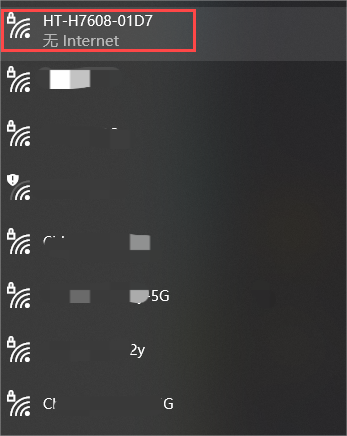
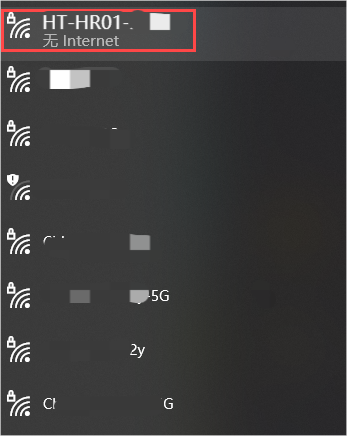
HR01

Changed region(s): [[0.0, 0.0, 1.0, 1.0], [0.1153, 0.0, 0.4899, 0.0894], [0.0, 0.0, 0.0288, 0.0298]]

diff --git a/doc/wifi_halow/halow_guide/source/conf.py b/doc/wifi_halow/halow_guide/source/conf.py
@@ -1,0 +1,23 @@
+# Configuration file for the Sphinx documentation builder.
+#
+# For the full list of built-in configuration values, see the documentation:
+# https://www.sphinx-doc.org/en/master/usage/configuration.html
+
+# -- Project information -----------------------------------------------------
+# https://www.sphinx-doc.org/en/master/usage/configuration.html#project-information
+
+project = 'ht-h7608'
+conf_py_path = '/doc/wifi_halow/ht-h7608/source/'
+
+copyright = '2022, shug'
+author = 'shug'
+release = 'latest'
+
+# -- General configuration ---------------------------------------------------
+# https://www.sphinx-doc.org/en/master/usage/configuration.html#general-configuration
+import os
+import sys
+sys.path.insert(0, os.path.abspath('../../../_ext/'))
+from common_conf import *
+
+update_path(conf_py_path)

diff --git a/doc/wifi_halow/ht-hr01/source/index.rst b/doc/wifi_halow/ht-hr01/source/index.rst
@@ -3,25 +3,152 @@
 
 :ht_translation:`[简体中文]:[Eglish]`
 
-
-
 **This document is still under construction and will be completed soon.**
 
-Summry
-------
+.. warning:: 
+   The current firmware version tests are all conducted on Raspberry PI 4B.
+
+Introduction
+============
+
 Pi-CamLow is a Raspberry Pi HAT(Hardware Attached on Top) that integrates Wi-Fi HaLow and a camera. Using the firmware we provided, this board allows you to enable various Wi-Fi HaLow functionalities such as AP, node, and Mesh networking on Raspberry Pi.
 
-.. image:: ./img/01.png
+.. image:: ./img/03.png
    :align: center
-   :width: 500x 
+   :width: 500px 
 
 Feature
 -------
 
-- Raspberry Pi HAT, onboard 40-pin Female Header, Specifically designed for Raspberry Pi, making integration and installation easy.
+- Raspberry Pi HAT, Specifically designed for Raspberry Pi, making integration and installation easy.
 - Provides firmware 
-   - Compatible with Raspberry Pi 4B.
-   - Enable all key Wi-Fi HaLow functionalities.
-   - Along with a camera display UI.
 - Excellent Wi-Fi HaLow RF performance
 - Powerful camera capabilities
+
+Components
+----------
+
+.. image:: ./img/01.png
+   :align: center
+   :width: 500px 
+
+-------------------------------------------------------------------
+
+Basic Resources
+===============
+
+- `ESP-HaLowCamera Datasheet <https://resource.heltec.cn/download/HT-HR01/Datasheet>`_
+- `ESP-HaLowCamera Schematic Diagram <https://resource.heltec.cn/download/HT-HR01/Schematic_diagram>`_
+- `HaLow-Camera Firmware <https://resource.heltec.cn/download/HT-HR01/firmware/Pi-CamLow>`_
+
+Pin Mapping
+===========
+
+The pins on this HAT are fully compatible with the Raspberry Pi.
+
+.. image:: ./img/02.png
+   :align: center
+   :width: 800px
+
+---------------------------------------------------------------
+
+Get started
+===========
+
+Hardware
+--------
+Hardware Preparation
+^^^^^^^^^^^^^^^^^^^^
+- `Pi-CamLow <https://heltec.org/project/ht-hc32/>`_
+- `Raspberry Pi 4 Module B <https://heltec.org/project/raspberry-pi4-model-b/>`_
+- Micro SD card
+- SD card reader
+- Computer running Windows, Linux, or macOS
+
+Hardware installation
+^^^^^^^^^^^^^^^^^^^^^
+Follow the steps shown below to install and connect the device.
+
+.. image:: ./img/10.png
+   :align: center
+
+Power
+^^^^^^
+HR01 is powered by Raspberry PI, so it is sufficient to connect the Raspberry PI power supply.
+
+-----------------------------------------------------------
+
+Install firmware
+----------------
+1. Download the `HR01_Firmware <https://resource.heltec.cn/download/HT-HR01/Firmware/HT-HR01-20241024.gz>`_ and `Raspberry Pi Imager <https://www.raspberrypi.com/software/>`_.
+2. Insert the SD card into the card reader and connect it to your computer.
+
+3. Install and run the **Raspberry Pi Imager tool**.
+
+.. image:: ./img/11.png
+   :align: center
+   :width: 500px
+
+4. Select the appropriate Raspberry Pi model. Slect `Use custom`.Select the **HR01_Firmware** you just downloaded.
+
+.. image:: ./img/12.png
+   :align: center
+   :width: 500px
+
+6. Click `NEXT` and complete the firmware installation.
+
+7. Remove the SD card from the card reader and insert it into the Raspberry Pi.
+
+.. image:: ./img/13.png
+   :align: center
+   :width: 500px
+
+------------------------------------------------------
+
+Setup and Use
+-------------
+
+.. warning:: 
+   Do not Setup while connected to a network cable. If you accidentally did this, please unplug the network cable and reconnect the power.
+
+1. After powering on the device, the red indicator light should turn on, indicating that the device is starting up, which will take approximately dozens of seconds.
+
+2. After the red light turns off, press and hold the device button for 3 seconds until the yellow light turns on, then release the button. At this point, the device has entered configuration mode.
+
+.. image:: ./img/14.png
+   :align: center
+   :width: 500px
+
+.. note:: 
+   In configuration mode, after a period of time, the indicator light will change to a red-green flashing state. This is normal, and the device is still in configuration mode. If you are unable to find the HT-HR01-XXXX configuration hotspot in this state, please try pressing and holding the button for 3 seconds again to re-enter configuration mode.
+
+3. At this point, use your computer to find the Wi-Fi hotspot named 'HT-HR01-XXXX' and connect to it. 
+   - The default password is "heltec.org".
+
+.. image:: ./img/04.png
+   :align: center
+   :width: 500px
+
+4. Open the web browser on your computer and go to '10.42.0.1'. 
+   - Default username: root
+   - Default password: heltec.org
+
+.. image:: ./img/05.png
+   :align: center
+   :width: 500px
+
+.. tip::
+   
+
+5. Select the mode you want to run and configure it accordingly. For detailed functionality and usage of each mode, please refer to the following link:
+
+   - `Wi-Fi HaLow Feature Description and Configuration Guide <https://docs.heltec.org/en/wifi_halow/halow_guide/index.html>`_
+
+FAQs
+=====
+
+- `HT-HR01 Frequently Asked Questions <https://docs.heltec.org/en/wifi_halow/ht-hr01/faq/index.html>`_
+
+Heltec General Docs
+===================
+-->[General Docs]<-- <https://docs.heltec.org/general/index.html>

diff --git a/doc/wifi_halow/get_started/source/via_local.md b/doc/wifi_halow/get_started/source/via_local.md
@@ -1,0 +1,38 @@
+# Install ESP_HaLow Framework Via Local File
+
+{ht_translation}`[简体中文]:[English]`
+
+
+``` {note} It is recommended to follow the path and file name as described below as much as possible to avoid unnecessary trouble.
+```
+
+1. Download the development environment. [Download Framework](https://resource.heltec.cn/download/tools/WiFi_Kit_series.zip)
+
+2. Open Arduino IDE, and click `File`->`Peferences`.
+
+![](img/quick_start/01.png)
+
+3. Go to the folder in the red box.
+
+  ![](img/quick_start/16.png)
+
+4. Create a new "hardware" folder in the Arduino folder. If there is already a "hardware" folder, you don't need to create a new one.
+
+![](img/quick_start/17.png)
+
+5. Creat a new "heltec" folder in "hardware" folder.
+
+  ![](img/quick_start/heltecfolder.png)
+
+6. Go to the "heltec" folder and extract "esp_halow" into this folder.
+
+  ![](img/quick_start/18.png)
+
+7. Go to the "heltec" folder, refer to the figure below to confirm whether the path in the red box is correct.
+
+  ![](img/quick_start/19.png)
+
+8. Restart the Arduino IDE to confirm whether the development environment is installed successfully.
+
+  ![](img/quick_start/20.png)
+

diff --git a/doc/wifi_halow/halow_guide/source/via_local.md b/doc/wifi_halow/halow_guide/source/via_local.md
@@ -1,0 +1,38 @@
+# Install ESP_HaLow Framework Via Local File
+
+{ht_translation}`[简体中文]:[English]`
+
+
+``` {note} It is recommended to follow the path and file name as described below as much as possible to avoid unnecessary trouble.
+```
+
+1. Download the development environment. [Download Framework](https://resource.heltec.cn/download/tools/WiFi_Kit_series.zip)
+
+2. Open Arduino IDE, and click `File`->`Peferences`.
+
+![](img/quick_start/01.png)
+
+3. Go to the folder in the red box.
+
+  ![](img/quick_start/16.png)
+
+4. Create a new "hardware" folder in the Arduino folder. If there is already a "hardware" folder, you don't need to create a new one.
+
+![](img/quick_start/17.png)
+
+5. Creat a new "heltec" folder in "hardware" folder.
+
+  ![](img/quick_start/heltecfolder.png)
+
+6. Go to the "heltec" folder and extract "esp_halow" into this folder.
+
+  ![](img/quick_start/18.png)
+
+7. Go to the "heltec" folder, refer to the figure below to confirm whether the path in the red box is correct.
+
+  ![](img/quick_start/19.png)
+
+8. Restart the Arduino IDE to confirm whether the development environment is installed successfully.
+
+  ![](img/quick_start/20.png)
+

diff --git a/doc/wifi_halow/ht-hc32/source/index.rst b/doc/wifi_halow/ht-hc32/source/index.rst
@@ -36,6 +36,10 @@ Components
    :align: center
    :width: 800px
 
+
+__________
+
+
 Basic Resources
 ===============
 
@@ -52,6 +56,8 @@ Pin Layout
 
 For description of function names, please refer to `ESP-HaLowCamera Datasheet <https://resource.heltec.cn/download/HT-HC32/Datasheet>`_.
 
+------------------------------------------
+
 Get started
 ===========
 
@@ -66,6 +72,13 @@ Required Hardware
 
   Be sure to use an appropriate USB cable. Some cables are for charging only and do not provide the needed data lines nor work for programming the boards.
 
+Hardware Connection
+-------------------
+The installation direction of SDcard and camera is shown below.
+
+.. image:: ./img/06.png
+   :align: center
+   :width: 600px
 
 Required Software
 -----------------

diff --git a/doc/wifi_halow/get_started/source/via_arduino_ide.md b/doc/wifi_halow/get_started/source/via_arduino_ide.md
@@ -1,0 +1,17 @@
+# Install ESP_HaLow Via Arduino
+
+{ht_translation}`[简体中文]:[English]`
+
+1. Open Arduino IDE, and click `File`->`Peferences`.
+
+  ![](img/quick_start/01.png)
+
+  ![](img/quick_start/02.png)
+
+2. **Input the last ESP32 package URL:** [https://resource.heltec.cn/download/package_heltec_esp32_index.json](https://resource.heltec.cn/download/package_heltec_esp32_index.json)
+
+  ![](img/quick_start/03.png)
+
+3. Click on the `Boards Manager` icon on the left side, and enter "**esp_halow**" in the search box that pops up, then select the latest version and click `INSTALL`	.
+
+  ![](img/quick_start/05.png)

diff --git a/doc/wifi_halow/halow_guide/source/via_arduino_ide.md b/doc/wifi_halow/halow_guide/source/via_arduino_ide.md
@@ -1,0 +1,17 @@
+# Install ESP_HaLow Via Arduino
+
+{ht_translation}`[简体中文]:[English]`
+
+1. Open Arduino IDE, and click `File`->`Peferences`.
+
+  ![](img/quick_start/01.png)
+
+  ![](img/quick_start/02.png)
+
+2. **Input the last ESP32 package URL:** [https://resource.heltec.cn/download/package_heltec_esp32_index.json](https://resource.heltec.cn/download/package_heltec_esp32_index.json)
+
+  ![](img/quick_start/03.png)
+
+3. Click on the `Boards Manager` icon on the left side, and enter "**esp_halow**" in the search box that pops up, then select the latest version and click `INSTALL`	.
+
+  ![](img/quick_start/05.png)

diff --git a/doc/wifi_halow/get_started/source/index.rst b/doc/wifi_halow/get_started/source/index.rst
@@ -3,6 +3,13 @@ Heltec Wi-Fi HaLow Development framework
 ========================================
 :ht_translation:`[简体中文]:[Eglish]`
 
-GitHub link: `Heltec ESP_HaLow <https://github.com/HelTecAutomation/ESP_HaLow>`_
+This article describes the installation of the Heltec ESP32_HaLow series development framework.
 
-*The detailed readme is still under construction*
+There are three methods to install the development framework, choose one of they:
+
+.. toctree::
+   :maxdepth: 1
+
+    -  Via Arduino IDE <via_arduino_ide>
+    -  Via Git <https://github.com/HelTecAutomation/ESP_HaLow>
+    -  Via Local File <via_local>

diff --git a/doc/wifi_halow/halow_guide/source/index.rst b/doc/wifi_halow/halow_guide/source/index.rst
@@ -1,0 +1,20 @@
+Wi-Fi HaLow Feature Description and Configuration Guide
+=======================================================
+
+:ht_translation:`[简体中文]:[Eglish]`
+
+This section describes the various features and configuration methods of Heltec's Wi-Fi HaLow. 
+
+The common operating modes of Wi-Fi HaLow are shown in the figure below:
+
+.. image:: ./img/03.png
+   :align: center
+   :width: 500px 
+
+.. toctree::
+   :maxdepth: 1
+
+    - Gateway(AP) <gateway>
+    - Client(STA) <station>
+    - Mesh Gate <mesh_gate>
+    - Mesh Point <mesh_point>

diff --git a/doc/wifi_halow/ht-hr01/source/faq.md b/doc/wifi_halow/ht-hr01/source/faq.md
@@ -1,0 +1,4 @@
+**HT-HC32 FAQs**
+
+{ht_translation}`[简体中文]:[English]`
+
